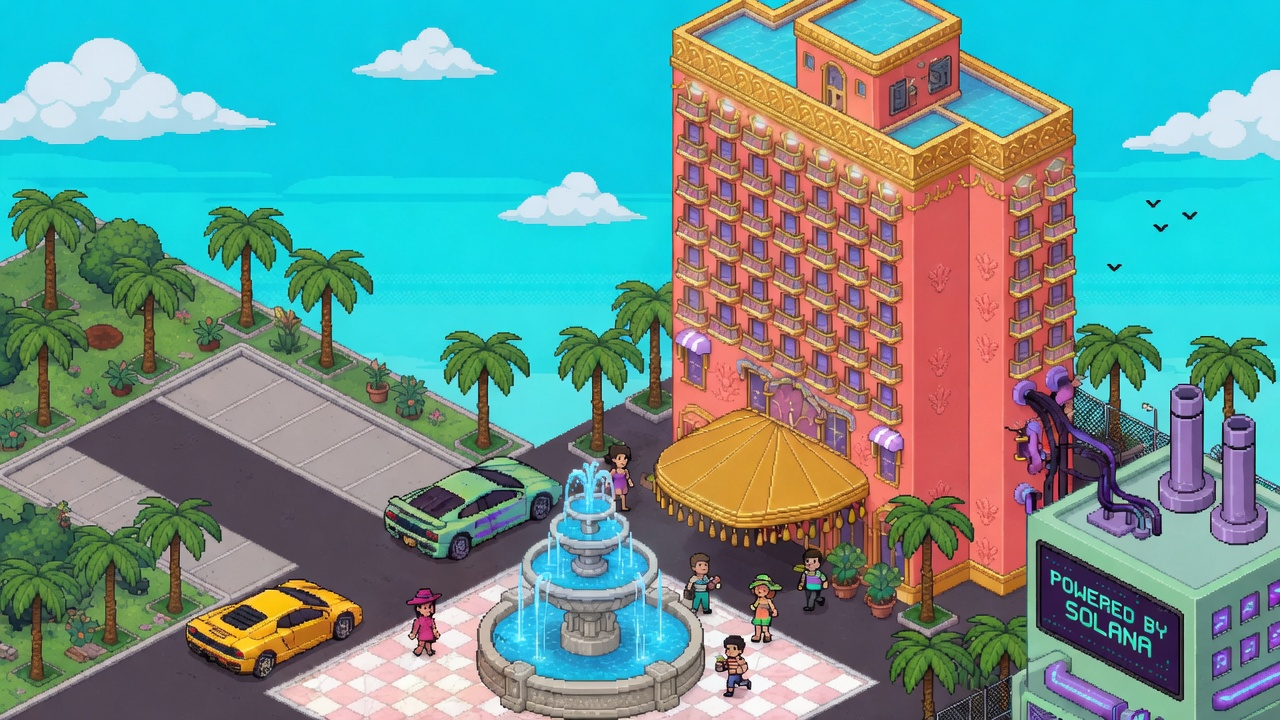
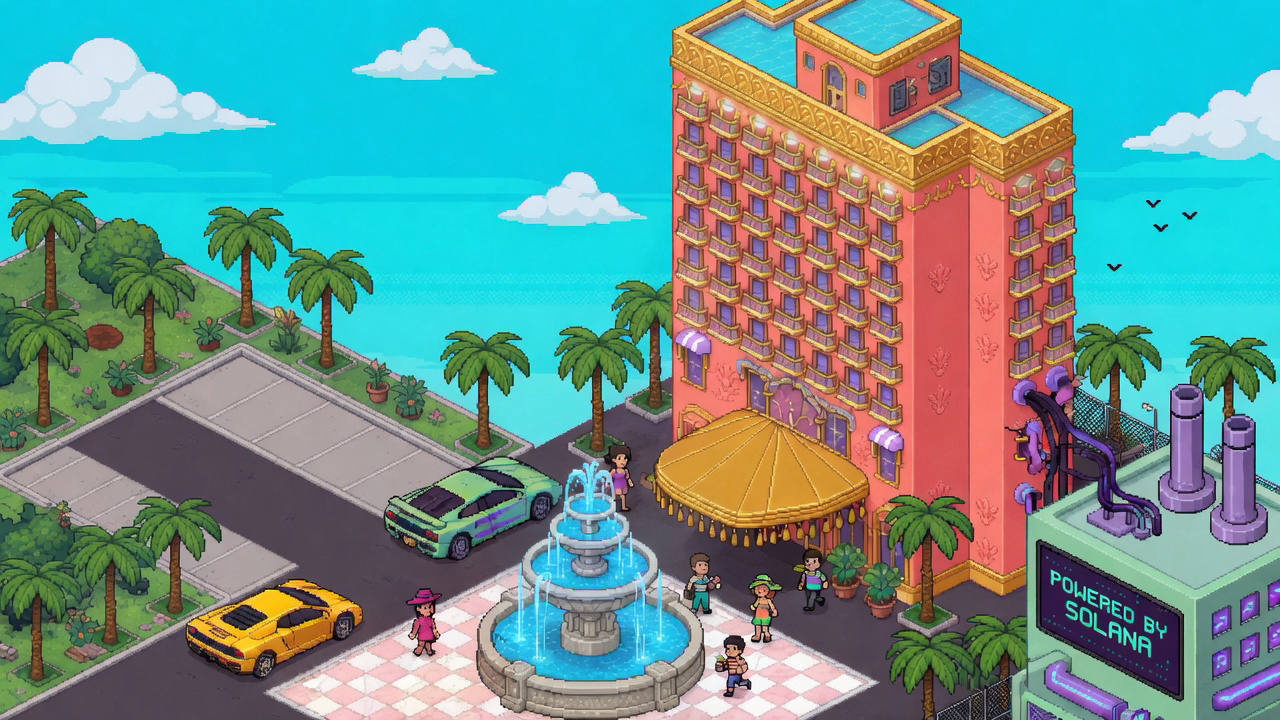
Railway health check, PORT-safe start, cache art, lighter landing images.

diff --git a/scripts/compress-landing.js b/scripts/compress-landing.js
@@ -1,0 +1,37 @@
+const fs = require("fs");
+const path = require("path");
+const jpeg = require("jpeg-js");
+
+function shrink(file, quality, maxW) {
+  const src = fs.readFileSync(file);
+  const img = jpeg.decode(src, { maxMemoryUsageInMB: 256, useTArray: true });
+  let { width, height, data } = img;
+  if (width > maxW) {
+    const nw = maxW;
+    const nh = Math.round((height * maxW) / width);
+    const out = Buffer.alloc(nw * nh * 4);
+    for (let y = 0; y < nh; y++) {
+      const sy = Math.min(height - 1, Math.floor((y * height) / nh));
+      for (let x = 0; x < nw; x++) {
+        const sx = Math.min(width - 1, Math.floor((x * width) / nw));
+        const si = (sy * width + sx) * 4;
+        const di = (y * nw + x) * 4;
+        out[di] = data[si];
+        out[di + 1] = data[si + 1];
+        out[di + 2] = data[si + 2];
+        out[di + 3] = 255;
+      }
+    }
+    width = nw;
+    height = nh;
+    data = out;
+  }
+  const encoded = jpeg.encode({ data: Buffer.from(data), width, height }, quality);
+  fs.writeFileSync(file, encoded.data);
+  console.log(path.basename(file), width + "x" + height, encoded.data.length);
+}
+
+const art = path.join(__dirname, "..", "public", "art");
+shrink(path.join(art, "landing-bg.jpg"), 72, 1600);
+shrink(path.join(art, "landing-mobile.jpg"), 72, 900);
+fs.copyFileSync(path.join(art, "landing-bg.jpg"), path.join(art, "hotel-hero.jpg"));

diff --git a/scripts/probe-railway.js b/scripts/probe-railway.js
@@ -1,0 +1,29 @@
+const urls = [
+  "https://hodlhotel.app/",
+  "https://hodl-hotel.up.railway.app/",
+  "https://hodl-hotel-production.up.railway.app/",
+  "https://hodlhotel.up.railway.app/",
+  "https://hodl-hotel-production.railway.app/",
+  "https://hodl-hotel.railway.app/",
+  "http://hodl-hotel.railway.internal/",
+];
+
+(async () => {
+  for (const u of urls) {
+    try {
+      const c = new AbortController();
+      const t = setTimeout(() => c.abort(), 8000);
+      const r = await fetch(u, { redirect: "follow", signal: c.signal, headers: { "user-agent": "hodl-probe" } });
+      clearTimeout(t);
+      const server = r.headers.get("server") || "";
+      const powered = r.headers.get("x-powered-by") || "";
+      const vercel = r.headers.get("x-vercel-id") || "";
+      const railway = r.headers.get("x-railway") || r.headers.get("x-railway-edge") || "";
+      const text = await r.text();
+      const hasHodl = text.includes("HODL") || text.includes("hodl");
+      console.log(JSON.stringify({ u, status: r.status, final: r.url, server, powered, vercel: !!vercel, railway, hasHodl, len: text.length }));
+    } catch (e) {
+      console.log(JSON.stringify({ u, error: e.cause?.code || e.message }));
+    }
+  }
+})();

diff --git a/scripts/probe-railway2.js b/scripts/probe-railway2.js
@@ -1,0 +1,26 @@
+const urls = [
+  "https://hodl-hotel.up.railway.app/",
+  "https://hodl-hotel.up.railway.app/join",
+  "https://hodl-hotel.up.railway.app/play",
+  "https://hodl-hotel-production.up.railway.app/",
+];
+
+(async () => {
+  for (const u of urls) {
+    try {
+      const c = new AbortController();
+      const t = setTimeout(() => c.abort(), 12000);
+      const r = await fetch(u, { redirect: "manual", signal: c.signal, headers: { "user-agent": "hodl-probe" } });
+      clearTimeout(t);
+      const headers = {};
+      for (const [k, v] of r.headers) if (/railway|vercel|server|location|x-/i.test(k)) headers[k] = v;
+      const text = await r.text();
+      console.log("---", u);
+      console.log("status", r.status, "len", text.length);
+      console.log("headers", headers);
+      console.log("body", text.slice(0, 250).replace(/\s+/g, " "));
+    } catch (e) {
+      console.log("---", u, "ERROR", e.cause?.code || e.message);
+    }
+  }
+})();

diff --git a/scripts/probe-rail-prod.js b/scripts/probe-rail-prod.js
@@ -1,0 +1,27 @@
+const base = "https://hodl-hotel-production.up.railway.app";
+const urls = [
+  "/",
+  "/join",
+  "/play",
+  "/api/auth/me",
+  "/art/landing-bg.jpg?v=4",
+  "/art/furn/sofa_sunset.png",
+  "/art/furn/stool_mint.png",
+];
+
+(async () => {
+  for (const path of urls) {
+    const u = base + path;
+    const t0 = Date.now();
+    try {
+      const c = new AbortController();
+      const t = setTimeout(() => c.abort(), 20000);
+      const r = await fetch(u, { signal: c.signal, redirect: "follow", headers: { "user-agent": "hodl-probe" } });
+      clearTimeout(t);
+      const buf = Buffer.from(await r.arrayBuffer());
+      console.log(r.status, Date.now() - t0 + "ms", buf.length, path, r.headers.get("content-type") || "");
+    } catch (e) {
+      console.log("FAIL", Date.now() - t0 + "ms", path, e.cause?.code || e.message);
+    }
+  }
+})();

diff --git a/src/components/HotelBackdrop.tsx b/src/components/HotelBackdrop.tsx
@@ -2,7 +2,7 @@ export function HotelBackdrop({ children }: { children: React.ReactNode }) {
   return (
     <div className="relative min-h-[100dvh] overflow-x-hidden bg-[#4ec6f0]">
       <img
-        src="/art/landing-mobile.jpg?v=4"
+        src="/art/landing-mobile.jpg?v=5"
         alt=""
         width={1080}
         height={1920}
@@ -12,7 +12,7 @@ export function HotelBackdrop({ children }: { children: React.ReactNode }) {
         style={{ imageRendering: "pixelated" }}
       />
       <img
-        src="/art/landing-bg.jpg?v=4"
+        src="/art/landing-bg.jpg?v=5"
         alt="HODL Hotel grounds with Solana power plant. Pixel sign reads Powered by Solana."
         width={1920}
         height={1080}

diff --git a/src/app/layout.tsx b/src/app/layout.tsx
@@ -20,8 +20,8 @@ export default function RootLayout({ children }: { children: React.ReactNode }) 
   return (
     <html lang="en">
       <head>
-        <link rel="preload" as="image" href="/art/landing-bg.jpg?v=4" media="(min-width: 768px)" />
-        <link rel="preload" as="image" href="/art/landing-mobile.jpg?v=4" media="(max-width: 767px)" />
+        <link rel="preload" as="image" href="/art/landing-bg.jpg?v=5" media="(min-width: 768px)" />
+        <link rel="preload" as="image" href="/art/landing-mobile.jpg?v=5" media="(max-width: 767px)" />
       </head>
       <body className={`${display.variable} ${sans.variable} font-sans antialiased`}>{children}</body>
     </html>

diff --git a/next.config.ts b/next.config.ts
@@ -5,6 +5,14 @@ const nextConfig: NextConfig = {
   reactStrictMode: false,
   images: { unoptimized: true },
   outputFileTracingRoot: path.join(__dirname),
+  async headers() {
+    return [
+      {
+        source: "/art/:path*",
+        headers: [{ key: "Cache-Control", value: "public, max-age=31536000, immutable" }],
+      },
+    ];
+  },
   webpack: (config) => {
     config.resolve.fallback = { ...(config.resolve.fallback || {}), fs: false, os: false, path: false };
     return config;

diff --git a/src/lib/store.ts b/src/lib/store.ts
@@ -134,6 +134,16 @@ export function findRoom(db: DB, id: string) {
   return db.rooms.find((r) => r.id === id);
 }
 
+export function persistInfo() {
+  const dir = process.env.DATA_DIR || join(process.cwd(), "data");
+  const file = join(dir, "db.json");
+  return {
+    dataDir: dir,
+    volumeMounted: existsSync("/data"),
+    dbFile: existsSync(file),
+  };
+}
+
 type LiveRoom = { occupants: Occupant[]; chat: ChatLine[] };
 
 type Live = { rooms: Record<string, LiveRoom> };

diff --git a/src/app/api/health/route.ts b/src/app/api/health/route.ts
@@ -1,0 +1,13 @@
+import { NextResponse } from "next/server";
+import { persistInfo } from "@/lib/store";
+
+export const dynamic = "force-dynamic";
+
+export async function GET() {
+  const persist = persistInfo();
+  return NextResponse.json({
+    ok: true,
+    persist,
+    railway: Boolean(process.env.RAILWAY_ENVIRONMENT || process.env.RAILWAY_PROJECT_ID),
+  });
+}

diff --git a/server.js b/server.js
@@ -1,0 +1,8 @@
+const { spawn } = require("child_process");
+const port = process.env.PORT || "3000";
+const nextBin = require.resolve("next/dist/bin/next");
+const child = spawn(process.execPath, [nextBin, "start", "-H", "0.0.0.0", "-p", String(port)], {
+  stdio: "inherit",
+  env: process.env,
+});
+child.on("exit", (code) => process.exit(code ?? 0));
